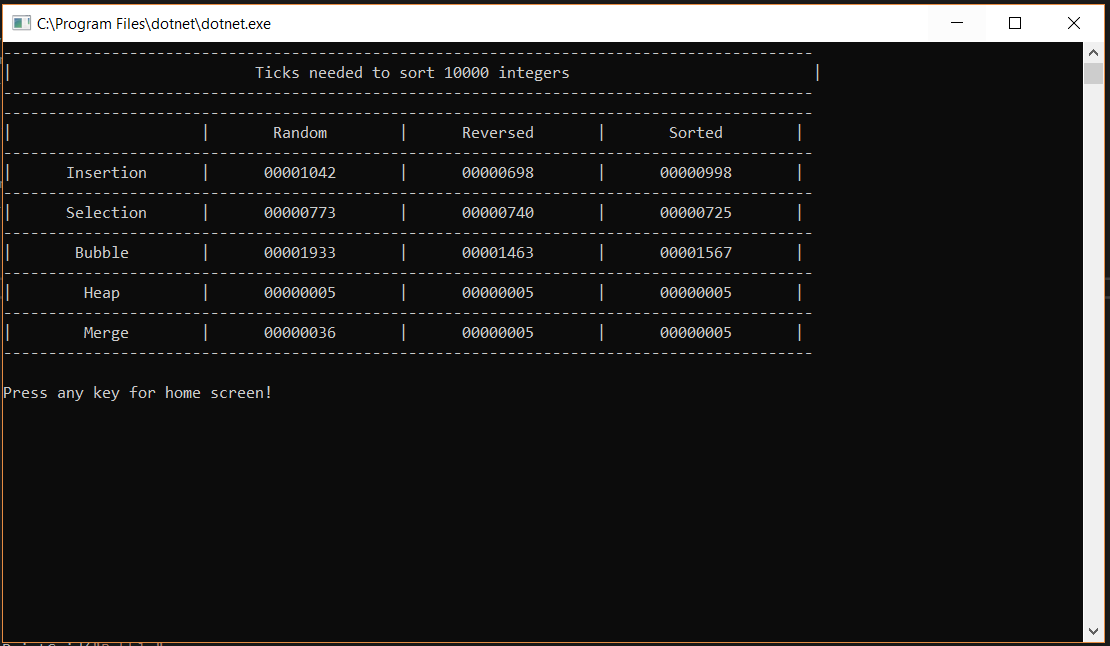
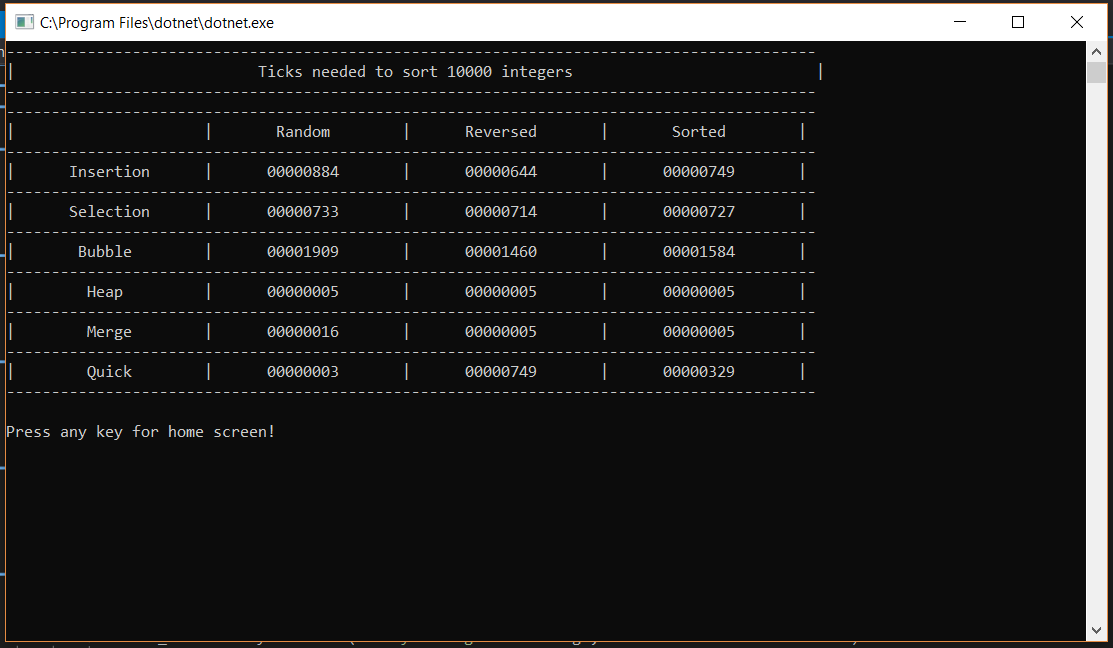
Quick Sort added

diff --git a/BasicAlgorithms/Arrays/SortingAlgorithms/QuickSort.cs b/BasicAlgorithms/Arrays/SortingAlgorithms/QuickSort.cs
@@ -1,0 +1,64 @@
+using BasicAlgorithmsArrays.SortingAlgorithms.Interfaces;
+using BasicAlgorithmsArrays.SortingAlgorithms.Models;
+using System;
+using System.Collections.Generic;
+using System.Linq;
+using System.Text;
+
+namespace BasicAlgorithmsArrays.SortingAlgorithms
+{
+    public class QuickSort : ISort
+    {
+
+        /// <summary>
+        /// Quick Sort Algorithm [Time: O(n*logn), Space: O(n)]
+        /// </summary>
+        /// <param name="data"></param>
+        /// <returns></returns>
+        public SortResults Sort(List<int> data)
+        {
+            var results = new SortResults();
+            var watch = System.Diagnostics.Stopwatch.StartNew();
+
+            _Sort(data, 0, data.Count - 1);
+
+            watch.Stop();
+            results.Ticks = watch.ElapsedMilliseconds;
+
+            results.SortedData = data;
+            return results;
+        }
+
+        private void _Sort(List<int> data, int start, int end)
+        {
+            if (start < end)
+            {
+                var middle = _Partition(data, start, end);
+                _Sort(data, start, middle - 1);
+                _Sort(data, middle + 1, end);
+            }
+        }
+
+        private int _Partition(List<int> data, int start, int end)
+        {
+            //loop partition and swap with last of partition (last as pivot)
+            for (var i = start; i < end; i++)
+            {
+                if (data[i] <= data[end])
+                {                   
+                    var tmp = data[start];
+                    data[start] = data[i];
+                    data[i] = tmp;
+                    start++;//move new pivot
+                }
+            }
+
+            //replace new pivot item with last
+            var tmp2 = data[start];
+            data[start] = data[end];
+            data[end] = tmp2;
+
+            return start;
+        }
+    }
+}

diff --git a/BasicAlgorithms.Tests/Arrays/SortingAlgorithms/QuickSortTests.cs b/BasicAlgorithms.Tests/Arrays/SortingAlgorithms/QuickSortTests.cs
@@ -1,0 +1,26 @@
+using Microsoft.VisualStudio.TestTools.UnitTesting;
+using System.Collections.Generic;
+using BasicAlgorithmsArrays.SortingAlgorithms;
+
+namespace BasicAlgorithms.Tests.ArraysArrays.SortingAlgorithms
+{
+    [TestClass]
+    public class QuickSortTests
+    {
+        [TestMethod]
+        public void QuickSort_Sort()
+        {
+            var search = new QuickSort();
+
+            var list = new List<int>() { 5, 1, 3, 2, 4 };
+            var result = search.Sort(list);
+            Assert.AreEqual(1, result.SortedData[0]);
+            Assert.AreEqual(2, result.SortedData[1]);
+            Assert.AreEqual(3, result.SortedData[2]);
+            Assert.AreEqual(4, result.SortedData[3]);
+            Assert.AreEqual(5, result.SortedData[4]);
+        }
+
+
+    }
+}

diff --git a/BasicAlgorithms/UI/ArraySortUI.cs b/BasicAlgorithms/UI/ArraySortUI.cs
@@ -54,6 +54,11 @@ namespace BasicAlgorithms.UI
                 _sortFactory.Estimate(eArraySortAlgorithms.Merge, eSearchDataProviders.ReverseSorted),
                 _sortFactory.Estimate(eArraySortAlgorithms.Merge, eSearchDataProviders.Sorted)
             );
+            PrintGrid("Quick",
+                _sortFactory.Estimate(eArraySortAlgorithms.Quick, eSearchDataProviders.Unsorted),
+                _sortFactory.Estimate(eArraySortAlgorithms.Quick, eSearchDataProviders.ReverseSorted),
+                _sortFactory.Estimate(eArraySortAlgorithms.Quick, eSearchDataProviders.Sorted)
+            );
         }
 
         private void PrintGrid(string title, SortResults u, SortResults r, SortResults s)

diff --git a/BasicAlgorithms/Arrays/ArraySortFactory.cs b/BasicAlgorithms/Arrays/ArraySortFactory.cs
@@ -44,6 +44,8 @@ namespace BasicAlgorithms.Arrays
                     return new HeapSort();
                 case eArraySortAlgorithms.Merge:
                     return new MergeSort();
+                case eArraySortAlgorithms.Quick:
+                    return new QuickSort();
             }
 
             throw new NotImplementedException("Unknown algorithm '" + nameof(sortAlgorithm) + "'");

diff --git a/BasicAlgorithms/Arrays/SortingAlgorithms/Models/eArraySortAlgorithms.cs b/BasicAlgorithms/Arrays/SortingAlgorithms/Models/eArraySortAlgorithms.cs
@@ -4,5 +4,5 @@ using System.Text;
 
 namespace BasicAlgorithms.Arrays.SortingAlgorithms.Models
 {
-    public enum eArraySortAlgorithms { Insertion, Selection, Bubble, Heap, Merge }
+    public enum eArraySortAlgorithms { Insertion, Selection, Bubble, Heap, Merge, Quick }
 }

diff --git a/README.md b/README.md
@@ -17,7 +17,7 @@ Array Sorting
 3. Bubble Sort
 4. Heap Sort
 5. Merge Sort
-
+6. Quick Sort
 
 Comparison for Search Algorithms
 --------------------------------
